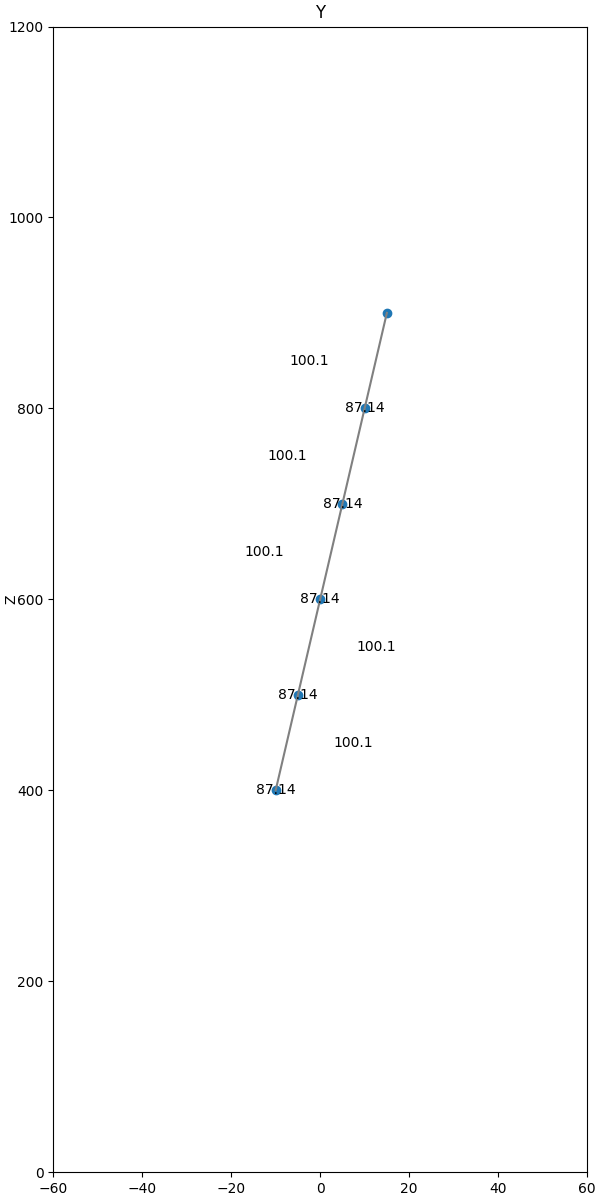
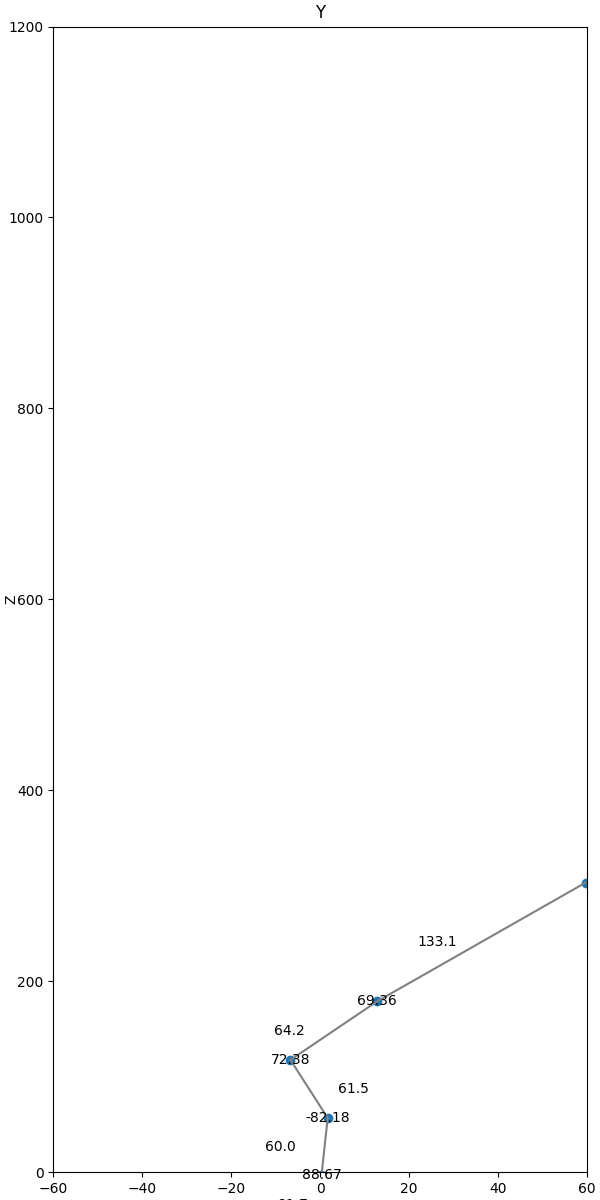
fixed the graph bug

diff --git a/main.py b/main.py
@@ -365,16 +365,16 @@ def clearPersonalInfo():
     NotesField.delete(1.0, tk.END)
 
 # Get points over usb
+# this works, but has to be cleaned up
 def getUSBpokaz():
     index = -1
+    ser.write(b'a')
 
-    # CHECK THIS FOR OVERHEAD
-    # this has to get more than one line, because readline stops at \n, but starts wherever, so before it was
-    # getting a random amount of bytes from the back of a packet
-    data = ser.readlines(250)
+
+    data = ser.readlines(145)
 
     # print(data)
-    for i in range(12):
+    for i in range(7):
 
         decoded = data[i].decode('utf8')
 
@@ -382,19 +382,23 @@ def getUSBpokaz():
             index += 1
             separate = decoded.split(";")
             # print(separate)
-            if separate[0] != '' and separate[1][0] != '':
+            try:
                 separate[0] = str(separate[0]).replace('.', '')
                 separate[1] = str(separate[1]).replace('.', '')
                 separate[2] = str(separate[2]).replace('.', '')
+            except ValueError:
+                print("Something tried to insert a wrong value into separate")
+            except IndexError:
+                print("index out of range")
                 # print(separate[0])
                 # print(separate[1])
                 # print(separate[2])
-                intake[0, index] = int(separate[0])  # / int(Calibration.get())
-                rawPoints[0, index] = intake[0, index] * (3.2 / 18)
-                intake[1, index] = int(separate[1])  # / int(Calibration.get())
-                rawPoints[1, index] = radious * math.cos(math.radians(intake[1, index] * (360 / 4096)))
-                intake[2, index] = int(separate[2])  # / int(Calibration.get())
-                rawPoints[2, index] = intake[2, index] * (3.2 / 18)
+            intake[0, index] = int(separate[0])  # / int(Calibration.get())
+            rawPoints[0, index] = intake[0, index] * (3.2 / 18)
+            intake[1, index] = int(separate[1])  # / int(Calibration.get())
+            rawPoints[1, index] = radious * math.cos(math.radians(intake[1, index] * (360 / 4096)))
+            intake[2, index] = int(separate[2])  # / int(Calibration.get())
+            rawPoints[2, index] = intake[2, index] * (3.2 / 18)
 
         if "BEGIN" in decoded:
             index = -1
@@ -512,18 +516,17 @@ menubar.add_command(label="Punkty testowe", command=testPoints)
 
 menubar.add_command(label="Connect", command=lambda: connect(portChoice.get()))
 
-""" propably best to do it with more stuff connected
-setPort = Listbox(menubar)
+setPort = tk.Listbox(menubar)
 ports = p.comports()
 #portList = []
 for i in ports:
-    setPort.insert(END, i)
+    setPort.insert(tk.END, i)
 print(setPort)
 #settings.
 menubar.add_cascade(label="Port", menu=setPort)
 
 #setPort.grid(row=0, column = 7)
-"""
+
 
 # MAINLOOP
 if connected == 0:
